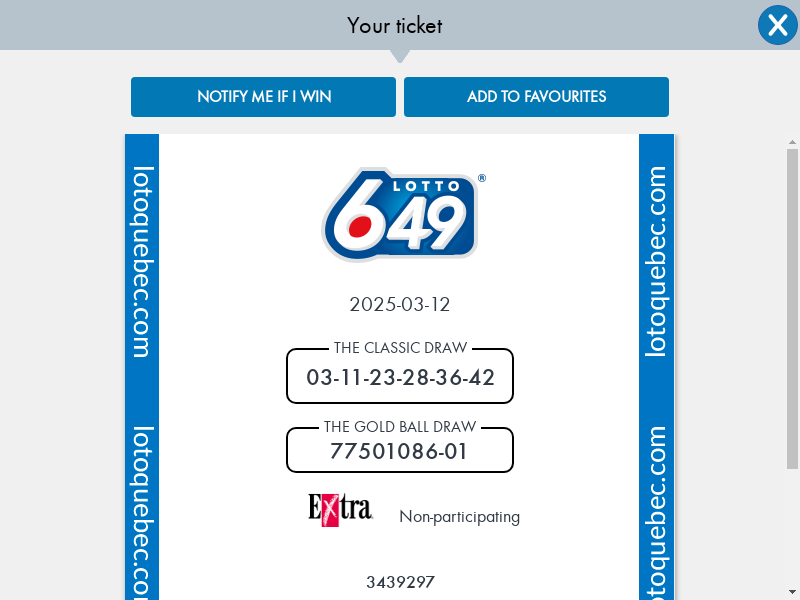
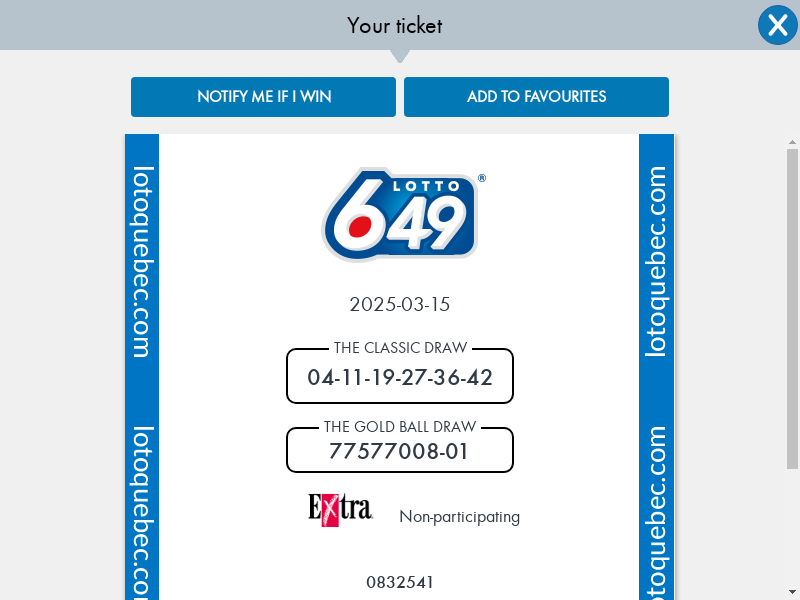
auto commit

diff --git a/docs/index.html b/docs/index.html
@@ -76,7 +76,14 @@
             </tr>
             </thead>
             <tbody>
-            <tr><td>2025-03-08</td><td>03-11-23-28-36-42</td><td>empty</td><td>{
+            <tr><td>2025-03-12</td><td>04-11-19-27-36-42</td><td>empty</td><td>{
+  "generate_nums": ["04", "11", "19", "27", "36", "42"]
+}</td></tr>
+<tr><td>2025-03-08</td><td>03-11-23-28-36-42</td><td>match 1 number, win number: The Classic Draw
+
+
+13-15-16-22-23-46 Bonus (B):
+(02)</td><td>{
   "generate_nums": ["03", "11", "23", "28", "36", "42"]
 }</td></tr>
 <tr><td>2025-03-05</td><td>02-12-20-27-34-39</td><td>match 2 number, win number: The Classic Draw
